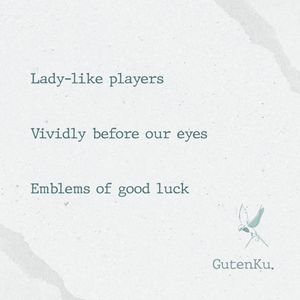
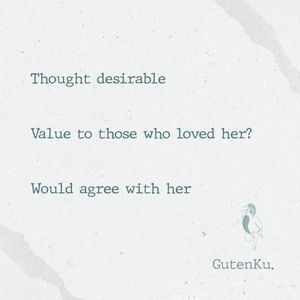
[Readme] Updated Daily Haiku Card

diff --git a/gutenku-api/services/openai.ts b/gutenku-api/services/openai.ts
@@ -37,10 +37,10 @@ export default class OpenAIService implements GeneratorInterface {
             const completion = await this.openAIApi.createCompletion({
                 model: 'text-davinci-003',
                 prompt,
-                temperature: 0.6,
+                temperature: 0.3,
                 max_tokens: 1200,
                 top_p: 0.2,
-                frequency_penalty: 0,
+                frequency_penalty: 0.2,
                 presence_penalty: 0,
                 stop: ['STOP'],
             });
@@ -75,8 +75,9 @@ export default class OpenAIService implements GeneratorInterface {
     private async generatePrompt(): Promise<string> {
         const haikus = await this.fetchHaikus();
 
-        const prompt = 'Choose the most revelant haiku from the list below (correct grammatical construction, consistency between [Verses], capturing beauty of nature, sense of tranquility, peace and good moment of insight) and generate UTF-8 emoticons for the corresponding [Book Title]:';
-        const outputFormat = '{"id":[Id],"title":"<Give a creative short title to describe the haiku>","title_emoticons":"<Generate 2 UTF-8 emoticons that represent the haiku","book_emoticons":"<Generate a series of UTF-8 emoticons that represent the book titled [Book Title]>","description":"<Describe and explain the haiku as an English literature teacher>","fr":"<Translate haiku\'s verses in french>,"es":"<Translate haiku\'s verses in spanish>","hashtags":"<Give 6 lowercase hashtags>"}';
+        //const prompt = 'Choose the most revelant haiku from the list below (correct grammatical construction, consistency between [Verses], capturing beauty of nature, sense of tranquility, peace and good moment of insight), generate UTF-8 emoticons for the corresponding [Book Title], and translate [Verses]:';
+        const prompt = 'Choose the most revelant haiku from the list below (correct grammatical construction, consistency between [Verses], capturing beauty of nature, sense of tranquility, peace and good moment of insight) and generate UTF-8 emoticons for the corresponding [Book Title]. Please provide a series of clear and easily recognizable emoticons that best represent the book:';
+        const outputFormat = '{"id":[Id],"title":"<Give a creative short title to describe the haiku>","title_emoticons":"<Generate two UTF-8 emoticons that represent the haiku","book_emoticons":"<Generate a series of UTF-8 emoticons that represent the related book (\'[Book Title\'])>","description":"<Describe and explain the haiku as an English literature teacher>","fr":"<Translate verses in french with \\n separator>,"es":"<Translate verses in spanish with \\n separator>","hashtags":"<Give 6 lowercase hashtags>"}';
 
         return `${prompt} (Use the following format: ${outputFormat})\n${haikus.join('\n')}\nSTOP\n`;
     }
@@ -90,8 +91,8 @@ export default class OpenAIService implements GeneratorInterface {
             this.haikuSelection.push(haiku);
 
             const verses = `Haiku [Id]: ${i}\n` +
-                `[Book Title]: ${haiku.book.title}\n` +
-                `[Verses]: ${haiku.verses.join('\n')}\n`;
+                `[Verses]: ${haiku.verses.join('\n')}\n` +
+                `[Book Title]: ${haiku.book.title}\n`;
 
             console.log(verses);
 

diff --git a/gutenku-api/scripts/setup.py b/gutenku-api/scripts/setup.py
@@ -8,14 +8,19 @@ from dotenv import load_dotenv
 load_dotenv(os.path.join(os.path.dirname(os.path.dirname(__file__)), '.env'))
 
 parser = argparse.ArgumentParser(description='Fetch and save book data')
-parser.add_argument('--delete', dest='delete', action='store_true',
-                    help='delete the book(s) before fetching and saving')
+parser.add_argument(
+    '--delete',
+    dest='delete',
+    action='store_true',
+    help='delete the book(s) before fetching and saving'
+)
 
 args = parser.parse_args()
 
 # Connect to the MongoDB database
 client = pymongo.MongoClient(os.environ.get(
-    'MONGODB_URI')+'/'+os.environ.get('MONGODB_DB'))
+    'MONGODB_URI')+'/'+os.environ.get('MONGODB_DB')
+)
 db = client[os.environ.get('MONGODB_DB')]
 haiku_collection = db["haikus"]
 

diff --git a/README.md b/README.md
@@ -4,9 +4,9 @@ A Haiku generator based on a selection of books from [Project Gutenberg](https:/
 
 ## Daily Haiku Card
 
-![Daily Haiku Card](/docs/img/daily_haiku_card.jpg?t=1680877236)
+![Daily Haiku Card](/docs/img/daily_haiku_card.jpg?t=1680888471)
 
-Last Snapshot: `Fri, 07 Apr 2023 16:20:36 +0200`
+Last Snapshot: `Fri, 07 Apr 2023 19:27:51 +0200`
 
 Want more? Visit [🔗gutenku.xyz](https://gutenku.xyz)
 
